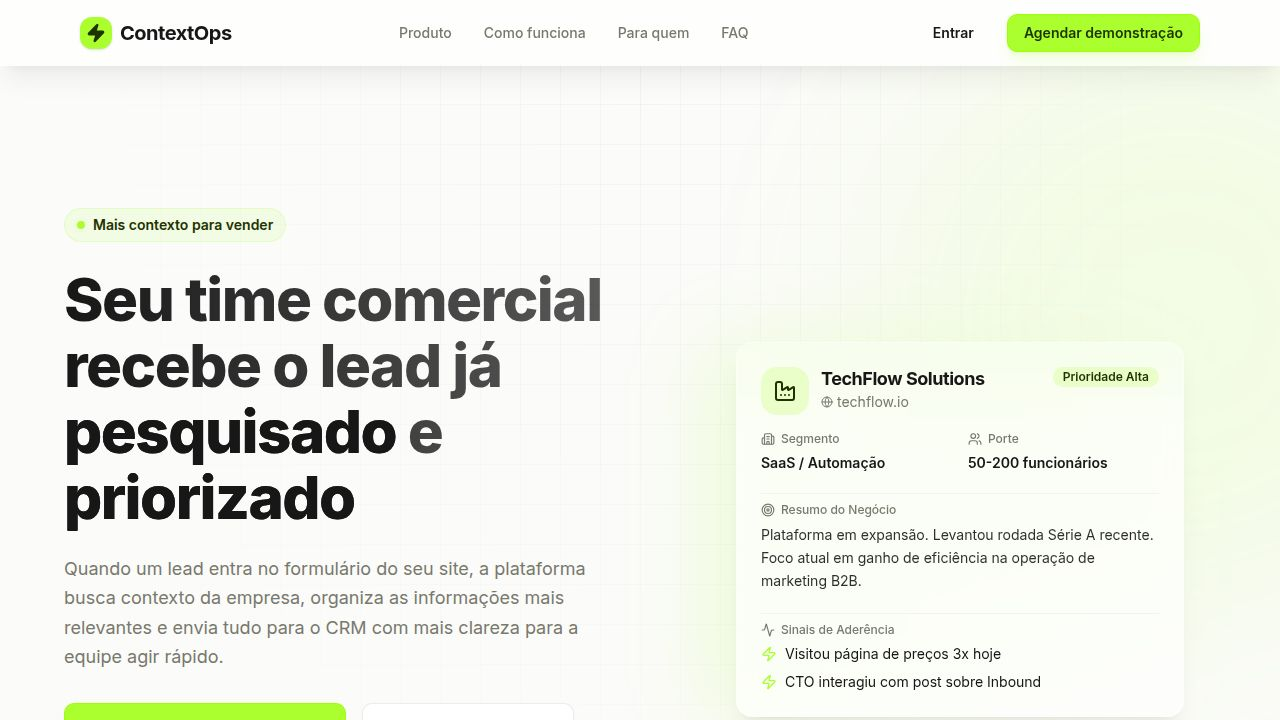
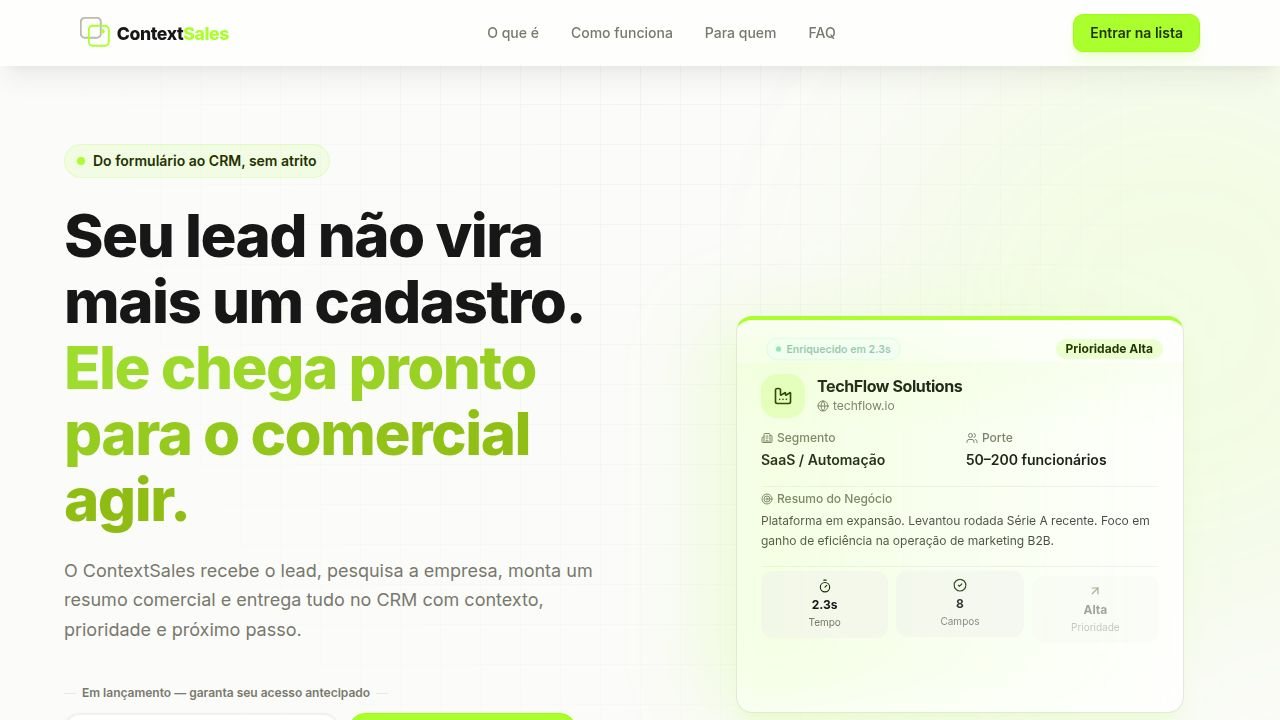
Update website colors to match design system precisely
Replace PNG logo images with an SVG component and adjust colors to match the site's primary and foreground tokens.

Replit-Commit-Author: Agent
Replit-Commit-Session-Id: fca402e2-0a33-44b7-acbc-bf436d23276d
Replit-Commit-Checkpoint-Type: full_checkpoint
Replit-Commit-Event-Id: 2b4bf019-7387-4476-af9c-26170eef5964
Replit-Commit-Screenshot-Url: https://storage.googleapis.com/screenshot-production-us-central1/f311afbb-26f6-4d63-94ad-ef2faa87506b/fca402e2-0a33-44b7-acbc-bf436d23276d/IYTZdJb
Replit-Helium-Checkpoint-Created: true

diff --git a/artifacts/contextops-landing/src/pages/Home.tsx b/artifacts/contextops-landing/src/pages/Home.tsx
@@ -1,6 +1,4 @@
 import { useState } from "react";
-import logoClaro from "@assets/contextsales_logo_claro_1773711588776.png";
-import logoEscuro from "@assets/contextsales_logo_escuro_1773711586243.png";
 import { motion } from "framer-motion";
 import { Button } from "@/components/ui/button";
 import { Card, CardContent } from "@/components/ui/card";
@@ -48,6 +46,23 @@ const itemAnim = {
   initial: { opacity: 0, y: 20 },
   whileInView: { opacity: 1, y: 0 }
 };
+
+function Logo({ white = false }: { white?: boolean }) {
+  const lime = "hsl(84 100% 59%)";
+  const textColor = white ? "#ffffff" : "hsl(0 0% 9%)";
+  const iconBack = white ? "rgba(255,255,255,0.28)" : "hsl(60 5% 72%)";
+
+  return (
+    <svg viewBox="0 0 212 40" fill="none" xmlns="http://www.w3.org/2000/svg" aria-label="ContextSales">
+      <rect x="1" y="1" width="25" height="25" rx="5" stroke={iconBack} strokeWidth="2.4" />
+      <rect x="11" y="11" width="25" height="25" rx="5" stroke={lime} strokeWidth="2.4" />
+      <circle cx="28.5" cy="18" r="2.6" fill={lime} />
+      <text x="46" y="29" fontFamily="Inter, sans-serif" fontWeight="800" fontSize="22" letterSpacing="-0.5">
+        <tspan fill={textColor}>Context</tspan><tspan fill={lime}>Sales</tspan>
+      </text>
+    </svg>
+  );
+}
 
 function WaitlistForm({ dark = false }: { dark?: boolean }) {
   const [email, setEmail] = useState("");
@@ -109,7 +124,9 @@ export default function Home() {
       <header className="fixed top-0 left-0 right-0 z-50 glass-panel border-b border-border/40">
         <div className="max-w-6xl mx-auto px-4 h-16 flex items-center justify-between">
           <div className="flex items-center">
-            <img src={logoClaro} alt="ContextSales" className="h-8 w-auto" style={{ filter: "hue-rotate(-32deg) saturate(1.5)" }} />
+            <div className="h-8" style={{ aspectRatio: "212/40" }}>
+              <Logo />
+            </div>
           </div>
           
           <nav className="hidden md:flex items-center gap-8 text-sm font-medium text-muted-foreground">
@@ -709,7 +726,9 @@ export default function Home() {
       <footer className="bg-foreground text-white/60 py-12 px-4 border-t border-white/10">
         <div className="max-w-6xl mx-auto flex flex-col md:flex-row items-center justify-between gap-6">
           <div className="flex items-center">
-            <img src={logoEscuro} alt="ContextSales" className="h-7 w-auto" style={{ filter: "hue-rotate(-32deg) saturate(1.5)" }} />
+            <div className="h-7" style={{ aspectRatio: "212/40" }}>
+              <Logo white />
+            </div>
           </div>
           <div className="flex flex-wrap justify-center gap-6 text-sm">
             <a href="#o-que-e" className="hover:text-white transition-colors">O que é</a>
